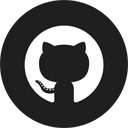
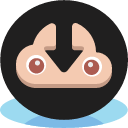
New images & other unrelated changes...
Fixes #4

diff --git a/gulpfile.babel.js b/gulpfile.babel.js
@@ -1,4 +1,4 @@
-// generated on 2016-05-06 using generator-chrome-extension 0.5.6
+// generated on 2018-03-20 using generator-chrome-extension 0.7.0
 import gulp from 'gulp';
 import gulpLoadPlugins from 'gulp-load-plugins';
 import del from 'del';
@@ -57,7 +57,12 @@ gulp.task('html',  () => {
     .pipe($.if('*.js', $.uglify()))
     .pipe($.if('*.css', $.cleanCss({compatibility: '*'})))
     .pipe($.sourcemaps.write())
-    .pipe($.if('*.html', $.htmlmin({removeComments: true, collapseWhitespace: true})))
+    .pipe($.if('*.html', $.htmlmin({
+      collapseWhitespace: true,
+      minifyCSS: true,
+      minifyJS: true,
+      removeComments: true
+    })))
     .pipe(gulp.dest('dist'));
 });
 
@@ -89,7 +94,7 @@ gulp.task('babel', () => {
 
 gulp.task('clean', del.bind(null, ['.tmp', 'dist']));
 
-gulp.task('watch', ['lint', 'babel', 'html'], () => {
+gulp.task('watch', ['lint', 'babel'], () => {
   $.livereload.listen();
 
   gulp.watch([
@@ -119,7 +124,7 @@ gulp.task('wiredep', () => {
 gulp.task('package', function () {
   var manifest = require('./dist/manifest.json');
   return gulp.src('dist/**')
-      .pipe($.zip('chrome commons upload-' + manifest.version + '.zip'))
+      .pipe($.zip('chrome github release downloads-' + manifest.version + '.zip'))
       .pipe(gulp.dest('package'));
 });
 

diff --git a/app/scripts.babel/chromereload.js b/app/scripts.babel/chromereload.js
@@ -8,6 +8,12 @@ const LIVERELOAD_HOST = 'localhost:';
 const LIVERELOAD_PORT = 35729;
 const connection = new WebSocket('ws://' + LIVERELOAD_HOST + LIVERELOAD_PORT + '/livereload');
 
+var lastReload = false;
+
+chrome.runtime.onInstalled.addListener(function(details) {
+  lastReload = Date.now();
+});    
+
 connection.onerror = error => {
   console.log('reload connection got error:', error);
 };
@@ -16,7 +22,13 @@ connection.onmessage = e => {
   if (e.data) {
     const data = JSON.parse(e.data);
     if (data && data.command === 'reload') {
-      chrome.runtime.reload();
+      var currentTime = Date.now();
+      if (lastReload && currentTime - lastReload > 60000) {
+	// don't reload more than once a minute
+	chrome.runtime.reload();
+	chrome.developerPrivate.reload(chrome.runtime.id, 
+				       {failQuietly: true});
+      }
     }
   }
 };

diff --git a/README.md b/README.md
@@ -1,15 +1,25 @@
 # chrome-github-release-downloads
 
-Chrome extension for displaying github release downloads
+Chrome extension for displaying github release downloads.
 
 ## Development
 
-This extensions uses the [Chrome Extension Generator](https://github.com/yeoman/generator-chrome-extension).
+This extensions uses the [Chrome Extension Generator](https://github.com/yeoman/generator-chrome-extension). Follow the instructions there to set it up.
 
-You will need to use 'gulp babel', 'gulp watch' and 'gulp build'.
+You will need to use 'gulp babel', 'gulp watch' and 'gulp build' once the generator is installed.
 
-To test, go to: chrome://extensions, enable Developer mode and load app as an unpacked extension.
+To test, go to: chrome://extensions, enable Developer mode and load the `dist` dir as an unpacked extension.
 
 ### Using Safari?
 
-- Just use [GitHubCounter](https://github.com/aonez/GitHubCounter) from @aonez, which is based on this extension.
+- Just use [GitHubCounter](https://github.com/aonez/GitHubCounter) from [@aonez](https://github.com/aonez), which is based on this extension.
+
+### Using another browser?
+
+File a ticket requesting an extension for another browser.
+
+Or if you know how, make the extension and link it in this README!
+
+### It uses:
+
+- Icon taken from the [Safari version](https://github.com/aonez/GitHubCounter). Based on [Nick Roach](https://www.elegantthemes.com/). Original icon can be found [here](https://www.iconfinder.com/icons/1055068/arrow_cloud_down_download_icon#size=512).
